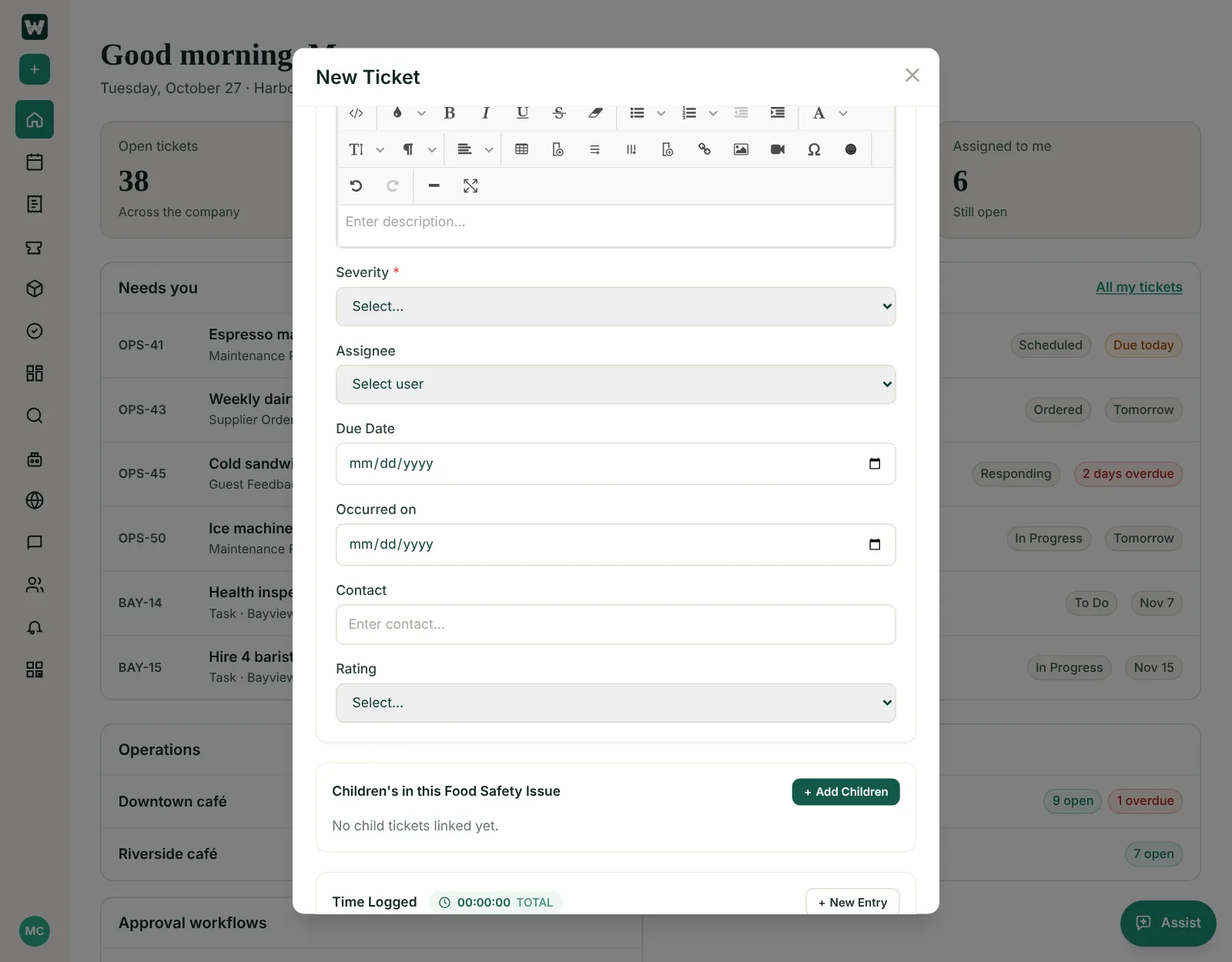
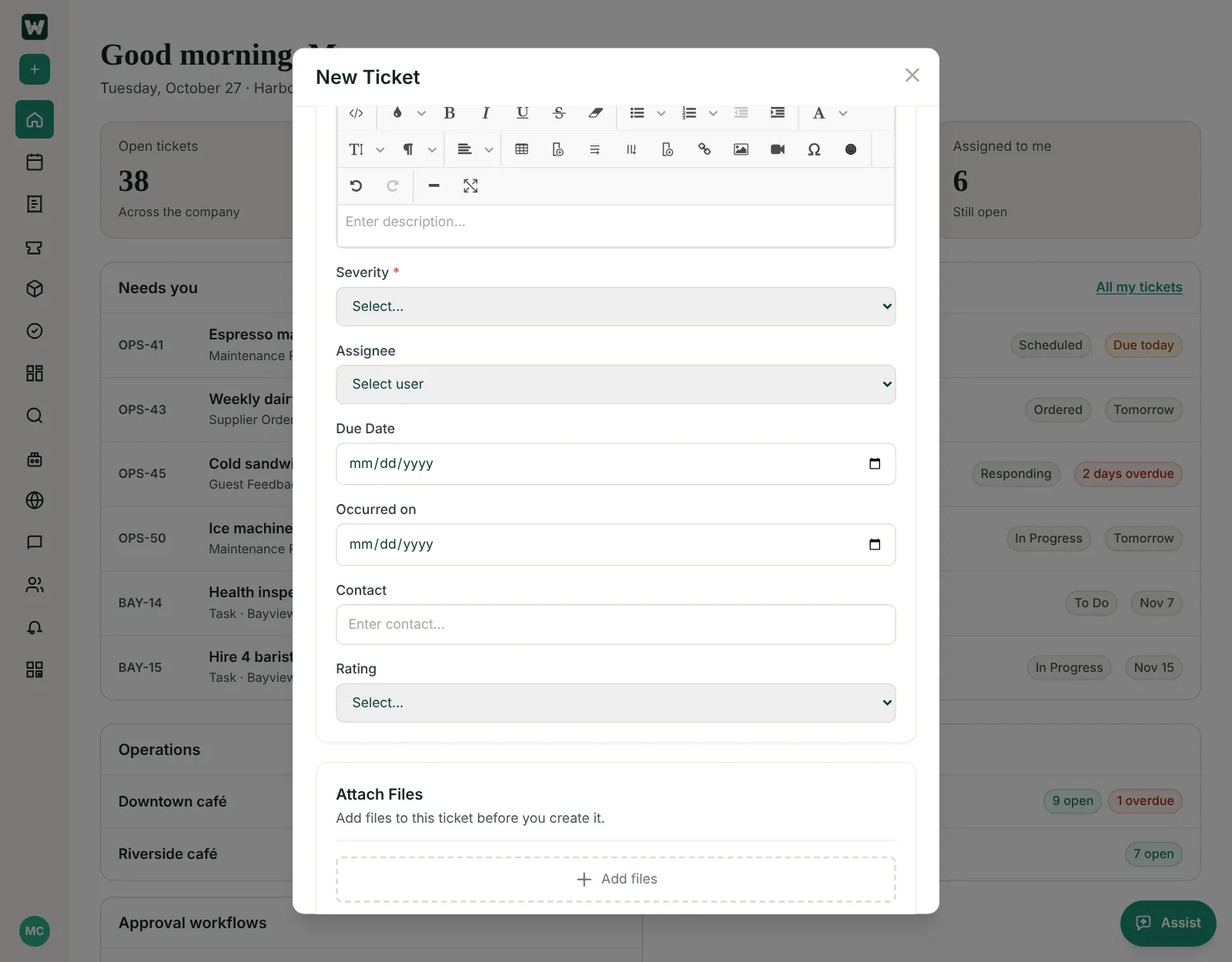
Docs: aura_monorepo #162–#166 — control ticket sections, Docs trash
- Tickets: new "Control the sections on a ticket" (Time logging, Attach
  files, Hierarchy + GitHub/Claude/Cursor; off until turned on per type;
  where they show) with the Sections editor, New Ticket and open-ticket shots
- Integrations (GitHub, Claude, Cursor): turn the section on per type
- Modules (Spaces): Docs trash with screenshot; Getting started: setup maps
  chosen types to your locations; Signing in: expired sessions
- FAQ, What's new (Nov 4); ticket screenshots re-taken

Claude-Session: https://claude.ai/code/session_01LrkZDcZU3B667ZymrL3Co3

diff --git a/docs/tickets/index.html b/docs/tickets/index.html
@@ -32,11 +32,11 @@
 
 <main id="top">
   <div class="wrap docs-layout">
-    <aside class="docs-side"><details class="side-details" id="docs-nav"><summary>Docs menu</summary><nav aria-label="Documentation"><p class="side-title">Get started</p><ul class="side-pages"><li><a href="/docs/">Overview</a></li><li><a href="/docs/getting-started/">Getting started</a></li><li><a href="/docs/signing-in/">Signing in</a></li><li><a href="/docs/plans-and-billing/">Plans &amp; billing</a></li><li><a href="/docs/ai-credits/">AI credits</a></li><li><a href="/docs/whats-new/">What’s new</a></li></ul><p class="side-title">Features</p><ul class="side-pages"><li><a href="/docs/home/">Home</a></li><li><a href="/docs/tickets/" aria-current="page">Tickets</a><ul class="side-sections"><li><a href="#list">The tickets list</a></li><li><a href="#ask-ai">Search with Ask AI</a></li><li><a href="#filters">Filters</a></li><li><a href="#new-ticket">Create a ticket</a></li><li><a href="#bulk-edit">Edit many at once</a></li><li><a href="#fields">Fields for each type</a></li><li><a href="#workflows">Workflow types</a></li><li><a href="#sections">Sections on a ticket</a></li><li><a href="#custom-workflow">Branching workflows</a></li></ul></li><li><a href="/docs/reports/">Scheduled reports</a></li><li><a href="/docs/approvals/">Approvals</a></li><li><a href="/docs/order-tracking/">Order Tracking</a></li><li><a href="/docs/connect-your-ai/">Connect your AI</a></li><li><a href="/docs/assist/">Assist</a></li><li><a href="/docs/shifts/">Shifts</a></li><li><a href="/docs/tv-screens/">TV screens</a></li></ul><p class="side-title">Reference</p><ul class="side-pages"><li><a href="/docs/modules/">Modules</a></li><li><a href="/docs/integrations/">Integrations</a></li><li class="sub"><a href="/docs/integrations/github/">GitHub</a></li><li class="sub"><a href="/docs/integrations/claude/">Claude</a></li><li class="sub"><a href="/docs/integrations/cursor/">Cursor</a></li><li class="sub"><a href="/docs/integrations/square/">Square</a></li><li class="sub"><a href="/docs/integrations/quickbooks/">QuickBooks</a></li><li class="sub"><a href="/docs/integrations/custom-apps/">Custom apps</a></li></ul><p class="side-title">Industry guides</p><ul class="side-pages"><li><a href="/docs/guides/restaurants/">Restaurants &amp; cafés</a></li><li><a href="/docs/guides/construction/">Construction &amp; trades</a></li><li><a href="/docs/guides/software/">Software teams</a></li></ul><p class="side-title">Help</p><ul class="side-pages"><li><a href="/docs/faq/">FAQ</a></li><li><a href="/docs/security/">Security &amp; data</a></li></ul></nav></details></aside><script>(function(){var d=document.getElementById("docs-nav");if(d&&window.matchMedia("(min-width: 981px)").matches)d.open=true;})();</script>
+    <aside class="docs-side"><details class="side-details" id="docs-nav"><summary>Docs menu</summary><nav aria-label="Documentation"><p class="side-title">Get started</p><ul class="side-pages"><li><a href="/docs/">Overview</a></li><li><a href="/docs/getting-started/">Getting started</a></li><li><a href="/docs/signing-in/">Signing in</a></li><li><a href="/docs/plans-and-billing/">Plans &amp; billing</a></li><li><a href="/docs/ai-credits/">AI credits</a></li><li><a href="/docs/whats-new/">What’s new</a></li></ul><p class="side-title">Features</p><ul class="side-pages"><li><a href="/docs/home/">Home</a></li><li><a href="/docs/tickets/" aria-current="page">Tickets</a><ul class="side-sections"><li><a href="#list">The tickets list</a></li><li><a href="#ask-ai">Search with Ask AI</a></li><li><a href="#filters">Filters</a></li><li><a href="#new-ticket">Create a ticket</a></li><li><a href="#bulk-edit">Edit many at once</a></li><li><a href="#fields">Fields for each type</a></li><li><a href="#workflows">Workflow types</a></li><li><a href="#sections">Control sections</a></li><li><a href="#custom-workflow">Branching workflows</a></li></ul></li><li><a href="/docs/reports/">Scheduled reports</a></li><li><a href="/docs/approvals/">Approvals</a></li><li><a href="/docs/order-tracking/">Order Tracking</a></li><li><a href="/docs/connect-your-ai/">Connect your AI</a></li><li><a href="/docs/assist/">Assist</a></li><li><a href="/docs/shifts/">Shifts</a></li><li><a href="/docs/tv-screens/">TV screens</a></li></ul><p class="side-title">Reference</p><ul class="side-pages"><li><a href="/docs/modules/">Modules</a></li><li><a href="/docs/integrations/">Integrations</a></li><li class="sub"><a href="/docs/integrations/github/">GitHub</a></li><li class="sub"><a href="/docs/integrations/claude/">Claude</a></li><li class="sub"><a href="/docs/integrations/cursor/">Cursor</a></li><li class="sub"><a href="/docs/integrations/square/">Square</a></li><li class="sub"><a href="/docs/integrations/quickbooks/">QuickBooks</a></li><li class="sub"><a href="/docs/integrations/custom-apps/">Custom apps</a></li></ul><p class="side-title">Industry guides</p><ul class="side-pages"><li><a href="/docs/guides/restaurants/">Restaurants &amp; cafés</a></li><li><a href="/docs/guides/construction/">Construction &amp; trades</a></li><li><a href="/docs/guides/software/">Software teams</a></li></ul><p class="side-title">Help</p><ul class="side-pages"><li><a href="/docs/faq/">FAQ</a></li><li><a href="/docs/security/">Security &amp; data</a></li></ul></nav></details></aside><script>(function(){var d=document.getElementById("docs-nav");if(d&&window.matchMedia("(min-width: 981px)").matches)d.open=true;})();</script>
     <article class="doc">
       <p class="eyebrow">Features</p>
       <h1>Tickets</h1>
-      <p class="intro">Every piece of work in Worklynq is a ticket — a checklist, a repair, a supplier order, an RFI, a bug. This page covers finding and filtering tickets, creating them, editing many at once, and setting up each type of ticket: the fields it asks for and how it moves from start to finish.</p>
+      <p class="intro">Every piece of work in Worklynq is a ticket — a checklist, a repair, a supplier order, an RFI, a bug. This page covers finding and filtering tickets, creating them, editing many at once, and setting up each type of ticket: the fields it asks for, the sections it shows, and how it moves from start to finish.</p>
       <figure class="shot"><img src="/assets/screens/tickets-ask-ai.webp" alt="The tickets list after an Ask AI search for the Downtown café’s tickets due this week, with the AI applied bar showing Unresolved, Downtown café and Due date in next 7 days" loading="lazy" width="1600" height="1000"><figcaption>Ask AI: “Downtown café, due this week” — and exactly what it applied</figcaption></figure>
       <section class="sec" id="list"><h2>The tickets list</h2>
         <ul>
@@ -77,7 +77,7 @@
       <section class="sec" id="new-ticket"><h2>Create a ticket</h2>
         <p>Click <strong>+</strong> at the top of the sidebar, or <strong>New ticket</strong> on a page. Pick the <strong>Work area</strong> — the store, project, product, or approval space the work belongs to — then the <strong>Ticket type</strong>. Only the types mapped to that work area are offered. If you see <em>No work area available</em>, you haven’t been given access to any yet — ask your administrator.</p>
         <figure class="shot"><img src="/assets/screens/new-ticket.webp" alt="The New Ticket dialog with Work area and Ticket type side by side" loading="lazy" width="1600" height="1000"><figcaption>New Ticket starts with the work area, lined up with the ticket type</figcaption></figure>
-        <p>The rest of the form asks for the fields that suit that type of ticket — see <a href="#fields">Fields for each type of ticket</a>.</p>
+        <p>The rest of the form asks for the fields that suit that type of ticket — see <a href="#fields">Fields for each type of ticket</a> — followed by any <a href="#sections">sections</a> the type has, such as Attach files.</p>
         <p class="tip">Your System Admin chooses which ticket types each work area can use in <strong>Admin console → Work Configuration → Ticket Type Mapping</strong>.</p>
         <figure class="shot"><img src="/assets/screens/ticket-type-mapping.webp" alt="Ticket Type Mapping: each store, project and approval space with the ticket types it can use" loading="lazy" width="1600" height="1000"><figcaption>Work Configuration → Ticket Type Mapping</figcaption></figure>
       </section>
@@ -106,7 +106,7 @@
             <tr><td>Engineering issue</td><td>Bug</td><td>Severity*, Environment*, Steps to reproduce, Expected and actual result, Device, Root cause</td></tr>
             <tr><td>Engineering work</td><td>Story, Task, Feature, Spike</td><td>Acceptance criteria, Estimate, Start date, plus sprint and release</td></tr>
             <tr><td>Engineering planning</td><td>Epic</td><td>Objective*, Start date, Estimate</td></tr>
-            <tr><td>General</td><td>Anything else</td><td>Description, assignee, priority, start and due dates, labels, files</td></tr>
+            <tr><td>General</td><td>Anything else</td><td>Description, assignee, priority, start and due dates, labels</td></tr>
           </tbody>
         </table></div>
         <p>Worklynq picks the kind from the ticket type’s name, its description, and the work areas it’s used in. A <em>Task</em> on a software product gets the engineering fields; a <em>Task</em> at a café gets the general ones.</p>
@@ -132,9 +132,37 @@
         <figure class="shot"><img src="/assets/screens/ticket-types-list.webp" alt="Ticket Types in Work Configuration, with each type’s workflow type, stages and sections" loading="lazy" width="1600" height="1000"><figcaption>Admin console → Work Configuration → Ticket Types</figcaption></figure>
         <p>Every workflow has a starting stage, up to five stages in the middle, and up to four <strong>end stages</strong>. A ticket counts as resolved once it reaches an end stage — that’s what <em>Unresolved</em> and “open” mean in filters and Ask AI. Each end stage is marked as a <strong>success</strong>, a <strong>failure</strong>, or <strong>cancelled</strong> — so a request can end <em>Approved</em>, <em>Rejected</em>, or <em>Withdrawn</em>, and Home and reports know which way it finished.</p>
       </section>
-      <section class="sec" id="sections"><h2>Sections on a ticket</h2>
-        <p>Besides fields, a ticket can show extra panels: the <strong>Time recorder</strong> for logging time, and, once those apps are connected, <strong>GitHub</strong> (branches, commits and pull requests) and the <strong>Claude</strong> and <strong>Cursor</strong> coding agents. The <strong>Sections</strong> column on Ticket Types shows which panels each type has. Click it to switch them on or off; apps that aren’t connected yet are greyed out, with a link to connect them.</p>
-        <figure class="shot"><img src="/assets/screens/ticket-types-sections.webp" alt="Sections on Maintenance Request tickets: Time recorder on under Built-in, and GitHub, Claude agent and Cursor agent under Apps, greyed out until connected" loading="lazy" width="1600" height="1250"><figcaption>Choosing the sections for Maintenance Request tickets</figcaption></figure>
+      <section class="sec" id="sections"><h2>Control the sections on a ticket</h2>
+        <p>Besides its fields, a ticket can have <strong>sections</strong>: larger parts that each ticket type turns on only if it needs them. Your System Admin chooses them for each ticket type.</p>
+        <div class="table-wrap"><table>
+          <thead><tr><th>Section</th><th>What it adds to the ticket</th></tr></thead>
+          <tbody>
+            <tr><td colspan="2"><strong>Built-in</strong></td></tr>
+            <tr><td>Time logging</td><td>A clock in / stop timer and time entries, with the total time logged.</td></tr>
+            <tr><td>Attach files</td><td>Upload files when you create the ticket, and attach more later.</td></tr>
+            <tr><td>Hierarchy</td><td>Parent and child tickets: put the ticket under a parent, or add children to it — a milestone and its punch items, an epic and its stories.</td></tr>
+            <tr><td colspan="2"><strong>Apps</strong> (once connected)</td></tr>
+            <tr><td><a href="/docs/integrations/github/">GitHub</a></td><td>Branches, commits, and pull requests linked to the ticket.</td></tr>
+            <tr><td><a href="/docs/integrations/claude/">Claude agent</a></td><td>Hand the ticket to a Claude coding agent and follow its progress.</td></tr>
+            <tr><td><a href="/docs/integrations/cursor/">Cursor agent</a></td><td>Hand the ticket to a Cursor cloud agent and follow its progress.</td></tr>
+          </tbody>
+        </table></div>
+        <p><strong>Every section starts off.</strong> A new ticket type, and an app you’ve just connected, shows no sections on any type until you turn them on. That keeps simple tickets simple: a checklist doesn’t need a timer or file uploads.</p>
+        <h3>Turn a section on or off</h3>
+        <ol class="howto">
+          <li>Open <strong>Admin console → Work Configuration → Ticket Types</strong>. The <strong>Sections</strong> column shows the sections each type has, or <em>None</em>.</li>
+          <li>Click the type’s Sections cell (or <strong>Edit</strong> under it). A panel opens, titled <em>Sections on … tickets</em>, with <strong>Built-in</strong> and <strong>Apps</strong> groups.</li>
+          <li>Switch each section on or off. It saves straight away.</li>
+          <li>Apps you haven’t connected are greyed out, with an <strong>Open Apps</strong> link to connect them first.</li>
+        </ol>
+        <figure class="shot"><img src="/assets/screens/ticket-types-sections.webp" alt="Sections on Maintenance Request tickets: Time logging and Attach files on, Hierarchy off, and GitHub under Apps greyed out until connected; Food Safety Issue and Guest Feedback show Attach files in the Sections column" loading="lazy" width="1600" height="1250"><figcaption>Maintenance Request tickets get time logging and file uploads, but no parent / children</figcaption></figure>
+        <h3>Where sections show</h3>
+        <ul>
+          <li><strong>Everywhere the ticket does.</strong> A section that’s on shows on New Ticket and on the open ticket; one that’s off is hidden from both. Sections aren’t fields, so they’re not in Ticket Type Screens or the Fields list — this switch is the only one.</li>
+          <li><strong>Nothing is lost when you turn one off.</strong> A ticket that already has files, logged time, or a parent or children keeps showing them.</li>
+          <li><strong>Apps follow the switch too.</strong> When the Claude or Cursor section is off for a type, that type’s tickets can’t be handed to the agent, including by stage automations.</li>
+        </ul>
+        <div class="shot-pair"><figure class="shot"><img src="/assets/screens/new-ticket-sections.webp" alt="New Ticket for a Maintenance Request, ending with the Time Logged section and the Attach Files section with Add files" loading="lazy" width="1600" height="1250"><figcaption>New Ticket with Time logging and Attach files on</figcaption></figure><figure class="shot"><img src="/assets/screens/ticket-detail-sections.webp" alt="An open Maintenance Request with Start clock, Time Logged and Attachments sections above the comments" loading="lazy" width="1600" height="1250"><figcaption>The same sections on the open ticket</figcaption></figure></div>
       </section>
       <section class="sec" id="custom-workflow"><h2>Build a branching workflow</h2>
         <p>For example, a <em>Menu Change</em> goes from <em>Proposed</em> to <em>Tasting</em>; after tasting it can be sent back with <em>Changes requested</em>, move on to <em>Costed</em>, or be <em>Rejected</em>.</p>
@@ -149,7 +177,7 @@
         <p><strong>Where the rules apply.</strong> On the board, dragging a card to a stage the workflow doesn’t allow shows <em>This workflow doesn’t go from X to Y</em>. On a ticket, the status menu greys out stages that aren’t a next step. Stage automations aren’t limited by the branches, and Linear and Free flow types work exactly as before.</p>
         <p class="tip">Want a quick start? <strong>Reset to linear</strong> puts back the one-step-at-a-time moves, and you can add branches from there.</p>
       </section>
-      <p class="doc-foot">Last updated: November 3, 2026. Questions? <a href="mailto:info@cohesync.com">info@cohesync.com</a></p>
+      <p class="doc-foot">Last updated: November 4, 2026. Questions? <a href="mailto:info@cohesync.com">info@cohesync.com</a></p>
     </article>
   </div>
 </main>

diff --git a/docs/whats-new/index.html b/docs/whats-new/index.html
@@ -32,11 +32,17 @@
 
 <main id="top">
   <div class="wrap docs-layout">
-    <aside class="docs-side"><details class="side-details" id="docs-nav"><summary>Docs menu</summary><nav aria-label="Documentation"><p class="side-title">Get started</p><ul class="side-pages"><li><a href="/docs/">Overview</a></li><li><a href="/docs/getting-started/">Getting started</a></li><li><a href="/docs/signing-in/">Signing in</a></li><li><a href="/docs/plans-and-billing/">Plans &amp; billing</a></li><li><a href="/docs/ai-credits/">AI credits</a></li><li><a href="/docs/whats-new/" aria-current="page">What’s new</a><ul class="side-sections"><li><a href="#2026-10-29">October 29, 2026</a></li><li><a href="#2026-10-28">October 28, 2026</a></li><li><a href="#2026-10-27">October 27, 2026</a></li><li><a href="#2026-10-26">October 26, 2026</a></li><li><a href="#2026-10-25">October 25, 2026</a></li><li><a href="#2026-10-22">October 22, 2026</a></li><li><a href="#2026-10-21">October 21, 2026</a></li></ul></li></ul><p class="side-title">Features</p><ul class="side-pages"><li><a href="/docs/home/">Home</a></li><li><a href="/docs/tickets/">Tickets</a></li><li><a href="/docs/reports/">Scheduled reports</a></li><li><a href="/docs/approvals/">Approvals</a></li><li><a href="/docs/order-tracking/">Order Tracking</a></li><li><a href="/docs/connect-your-ai/">Connect your AI</a></li><li><a href="/docs/assist/">Assist</a></li><li><a href="/docs/shifts/">Shifts</a></li><li><a href="/docs/tv-screens/">TV screens</a></li></ul><p class="side-title">Reference</p><ul class="side-pages"><li><a href="/docs/modules/">Modules</a></li><li><a href="/docs/integrations/">Integrations</a></li><li class="sub"><a href="/docs/integrations/github/">GitHub</a></li><li class="sub"><a href="/docs/integrations/claude/">Claude</a></li><li class="sub"><a href="/docs/integrations/cursor/">Cursor</a></li><li class="sub"><a href="/docs/integrations/square/">Square</a></li><li class="sub"><a href="/docs/integrations/quickbooks/">QuickBooks</a></li><li class="sub"><a href="/docs/integrations/custom-apps/">Custom apps</a></li></ul><p class="side-title">Industry guides</p><ul class="side-pages"><li><a href="/docs/guides/restaurants/">Restaurants &amp; cafés</a></li><li><a href="/docs/guides/construction/">Construction &amp; trades</a></li><li><a href="/docs/guides/software/">Software teams</a></li></ul><p class="side-title">Help</p><ul class="side-pages"><li><a href="/docs/faq/">FAQ</a></li><li><a href="/docs/security/">Security &amp; data</a></li></ul></nav></details></aside><script>(function(){var d=document.getElementById("docs-nav");if(d&&window.matchMedia("(min-width: 981px)").matches)d.open=true;})();</script>
+    <aside class="docs-side"><details class="side-details" id="docs-nav"><summary>Docs menu</summary><nav aria-label="Documentation"><p class="side-title">Get started</p><ul class="side-pages"><li><a href="/docs/">Overview</a></li><li><a href="/docs/getting-started/">Getting started</a></li><li><a href="/docs/signing-in/">Signing in</a></li><li><a href="/docs/plans-and-billing/">Plans &amp; billing</a></li><li><a href="/docs/ai-credits/">AI credits</a></li><li><a href="/docs/whats-new/" aria-current="page">What’s new</a><ul class="side-sections"><li><a href="#2026-11-04">November 4, 2026</a></li><li><a href="#2026-10-29">October 29, 2026</a></li><li><a href="#2026-10-28">October 28, 2026</a></li><li><a href="#2026-10-27">October 27, 2026</a></li><li><a href="#2026-10-26">October 26, 2026</a></li><li><a href="#2026-10-25">October 25, 2026</a></li><li><a href="#2026-10-22">October 22, 2026</a></li><li><a href="#2026-10-21">October 21, 2026</a></li></ul></li></ul><p class="side-title">Features</p><ul class="side-pages"><li><a href="/docs/home/">Home</a></li><li><a href="/docs/tickets/">Tickets</a></li><li><a href="/docs/reports/">Scheduled reports</a></li><li><a href="/docs/approvals/">Approvals</a></li><li><a href="/docs/order-tracking/">Order Tracking</a></li><li><a href="/docs/connect-your-ai/">Connect your AI</a></li><li><a href="/docs/assist/">Assist</a></li><li><a href="/docs/shifts/">Shifts</a></li><li><a href="/docs/tv-screens/">TV screens</a></li></ul><p class="side-title">Reference</p><ul class="side-pages"><li><a href="/docs/modules/">Modules</a></li><li><a href="/docs/integrations/">Integrations</a></li><li class="sub"><a href="/docs/integrations/github/">GitHub</a></li><li class="sub"><a href="/docs/integrations/claude/">Claude</a></li><li class="sub"><a href="/docs/integrations/cursor/">Cursor</a></li><li class="sub"><a href="/docs/integrations/square/">Square</a></li><li class="sub"><a href="/docs/integrations/quickbooks/">QuickBooks</a></li><li class="sub"><a href="/docs/integrations/custom-apps/">Custom apps</a></li></ul><p class="side-title">Industry guides</p><ul class="side-pages"><li><a href="/docs/guides/restaurants/">Restaurants &amp; cafés</a></li><li><a href="/docs/guides/construction/">Construction &amp; trades</a></li><li><a href="/docs/guides/software/">Software teams</a></li></ul><p class="side-title">Help</p><ul class="side-pages"><li><a href="/docs/faq/">FAQ</a></li><li><a href="/docs/security/">Security &amp; data</a></li></ul></nav></details></aside><script>(function(){var d=document.getElementById("docs-nav");if(d&&window.matchMedia("(min-width: 981px)").matches)d.open=true;})();</script>
     <article class="doc">
       <p class="eyebrow">Get started</p>
       <h1>What’s new</h1>
       <p class="intro">New features and improvements in Worklynq, newest first.</p>
+      <section class="release" id="2026-11-04"><h2>November 4, 2026</h2>
+        <article class="change" id="sections-per-type"><span class="change-tag">Changed</span><h3>Choose the sections each ticket type shows</h3><p>Time logging, Attach files, and Hierarchy (parent / child tickets) are now <strong>sections</strong>, switched on per ticket type in the Sections column of Ticket Types, next to GitHub, Claude, and Cursor. Every section starts off — for new ticket types and newly connected apps too — so turn on what each type needs. A section that’s on shows on New Ticket and on the open ticket; tickets that already have files, time, or children keep showing them.</p><p class="change-link"><a href="/docs/tickets/#sections">Control sections →</a></p></article>
+        <article class="change" id="setup-mapping"><span class="change-tag">Fixed</span><h3>Ticket types chosen in setup work at your locations right away</h3><p>The ticket types you pick in first-time setup are now turned on for the locations or projects you added the step before, so you can create tickets there straight away.</p><p class="change-link"><a href="/docs/getting-started/#ticket-types">Getting started →</a></p></article>
+        <article class="change" id="docs-trash"><span class="change-tag">Fixed</span><h3>Deleted pages go to Docs trash</h3><p>Deleting a page, folder, or space now moves it to Docs trash, where your System Admin can recover it or delete it for good. Before, deleted pages were erased straight away.</p><p class="change-link"><a href="/docs/modules/#spaces">Spaces →</a></p></article>
+        <article class="change" id="session-expiry"><span class="change-tag">Improved</span><h3>An expired session takes you to sign in and back</h3><p>If your session runs out while a tab is open, Worklynq now sends you to sign in and then back to the page you were on, instead of failing every action. Bulk edit on the tickets list works again, too.</p><p class="change-link"><a href="/docs/signing-in/#cant-sign-in">Signing in →</a></p></article>
+      </section>
       <section class="release" id="2026-10-29"><h2>October 29, 2026</h2>
         <article class="change" id="filters-panel"><span class="change-tag">New</span><h3>A new Filters panel, with saved filters you can share</h3><p><strong>Filter</strong> on the tickets list opens one page: describe what you want and Ask AI fills in the conditions, pick a quick filter like <em>My open</em> or <em>Overdue</em>, or build conditions that read like sentences — with <em>all</em> or <em>any</em>, nested groups, and values from your real statuses, people, work areas, and custom fields. A live count shows how many tickets match. Saved filters can be shared with everyone, renamed, duplicated, or set as your default.</p><p class="change-link"><a href="/docs/tickets/#filters">Filters →</a></p></article>
         <article class="change" id="ai-applied"><span class="change-tag">Improved</span><h3>See exactly what Ask AI applied</h3><p>After an Ask AI search, a bar under the toolbar shows what was applied as chips — <em>Unresolved · Downtown café · Priority: Critical, High</em>. Remove a chip, show the query, edit it in Filters, or save it. Ask AI is also more accurate: “open” follows each ticket type’s end stages, it only uses values that exist in your workspace, and it understands kinds of work like “all operations tickets”.</p><p class="change-link"><a href="/docs/tickets/#ask-ai">Ask AI →</a></p></article>
@@ -102,7 +108,7 @@
         <article class="change" id="customers-engagement"><span class="change-tag">New</span><h3>Customers and Engagement</h3><p>Customer Experience starts with two modules. <strong>Customers</strong> keeps records for the people and businesses you sell to, with their purchases, subscriptions, orders, and total spent. <strong>Engagement</strong> adds a history of every call, meeting, email, and note, plus promo emails sent through your own Mailchimp account — pick who gets them, send now or schedule, and see opens and clicks.</p><p class="change-link"><a href="/docs/modules/#customer-experience">About Customer Experience →</a></p></article>
         <article class="change" id="ai-hub-focus"><span class="change-tag">Changed</span><h3>A simpler AI Hub, with agents that act</h3><p>AI Hub now has two modules: <strong>AI Search</strong> and <strong>AI Agents</strong>. AI Context, Workflows, Assets, and Playground are gone — multi-step work lives in ticket stage automations, and an agent’s instructions and knowledge live in the agent itself. Agents can now look things up and, when you allow it, change tickets and docs as the person who runs them; run them yourself, on a schedule, or when a ticket reaches a stage. The Agents page also shows your team’s connected AI, the Claude and Cursor coding agents, and an activity log.</p><p class="change-link"><a href="/docs/modules/#ai-hub">About AI Hub →</a></p></article>
       </section>
-      <p class="doc-foot">Last updated: November 3, 2026. Questions? <a href="mailto:info@cohesync.com">info@cohesync.com</a></p>
+      <p class="doc-foot">Last updated: November 4, 2026. Questions? <a href="mailto:info@cohesync.com">info@cohesync.com</a></p>
     </article>
   </div>
 </main>

diff --git a/docs/modules/index.html b/docs/modules/index.html
@@ -82,7 +82,7 @@
           <h3>Tickets</h3>
           <p class="mod-tagline">Every piece of work, tracked from start to done.</p>
           <p>Tickets hold everything your team works on: tasks, requests, issues, inspections, bugs. Each ticket type has its own workflow — a starting stage, up to five stages in the middle, and up to four end stages — and can run in a set order, move freely, or follow branches you design (see <a href="/docs/tickets/#workflows">workflow types</a>). Every end stage is marked as a <strong>success</strong>, a <strong>failure</strong>, or <strong>cancelled</strong>, so work can finish more than one way: a Change Order can end Approved, Rejected, or Withdrawn. The workflow editor draws several end stages as branches. Types can sit under one another, like a Story under an Epic or a Punch Item under a Milestone.</p>
-          <ul class="hl"><li>Ticket types with their own stages and colors</li><li>Several endings per type — success, failure, or cancelled</li><li>Parent and child tickets (Epic → Story, Milestone → Punch Item)</li><li>Assignees, priorities, due dates, comments, and attachments, plus <a href="/docs/tickets/#fields">fields suited to each kind of ticket</a> — Occurred on and Corrective action on a food safety issue, Steps to reproduce on a bug</li><li>Find anything with <a href="/docs/tickets/#ask-ai">Ask AI</a> and <a href="/docs/tickets/#filters">Filters</a>, and share saved filters with your team</li><li>Automations on each stage: create follow-up tickets, update fields, hand the ticket to Claude or Cursor, or run an AI agent</li><li>A library of 35 ready-made ticket types by industry</li></ul>
+          <ul class="hl"><li>Ticket types with their own stages and colors</li><li>Several endings per type — success, failure, or cancelled</li><li>Parent and child tickets (Epic → Story, Milestone → Punch Item)</li><li><a href="/docs/tickets/#sections">Sections you turn on per type</a>: time logging, file uploads, parent / children, and GitHub, Claude, or Cursor</li><li>Assignees, priorities, due dates, comments, and attachments, plus <a href="/docs/tickets/#fields">fields suited to each kind of ticket</a> — Occurred on and Corrective action on a food safety issue, Steps to reproduce on a bug</li><li>Find anything with <a href="/docs/tickets/#ask-ai">Ask AI</a> and <a href="/docs/tickets/#filters">Filters</a>, and share saved filters with your team</li><li>Automations on each stage: create follow-up tickets, update fields, hand the ticket to Claude or Cursor, or run an AI agent</li><li>A library of 35 ready-made ticket types by industry</li></ul>
         <figure class="shot"><img src="/assets/screens/ticket-detail.webp" alt="A maintenance ticket: its stage, its slot on the Operations calendar, assignee, priority, due date and description" loading="lazy" width="1600" height="1125"><figcaption>A ticket with its stage, calendar slot, and details</figcaption></figure>
           <p class="req">Many modules build on Tickets: Operations, Projects, Team Board, Roadmaps, Product Releases, and AI Agents.</p>
         </div>
@@ -150,9 +150,11 @@
           <h3>Spaces</h3>
           <p class="mod-tagline">Write it down once. Share it with the right people.</p>
           <p>Your own My Space plus shared spaces for the company, all in one module — pick a space at the top of the page tree, with My Space first. Write documents, notes, and procedures in a rich editor, start from templates, send important documents for approval (with the Approvals module on), and archive what&#x27;s out of date without losing it. Archive and Templates sit under Spaces in the sidebar while it’s open.</p>
-          <ul class="hl"><li>My Space and shared spaces, with one space picker</li><li>Rich editor and templates</li><li>Verified pages, with <a href="/docs/approvals/#documents">Approvals</a></li><li>Version history</li><li>Archive that stays searchable</li><li>Pages shared with you stay private to the people they’re shared with</li><li>Ask <a href="/docs/assist/#this-page">Assist</a> to summarize the page you’re reading</li></ul>
+          <ul class="hl"><li>My Space and shared spaces, with one space picker</li><li>Rich editor and templates</li><li>Verified pages, with <a href="/docs/approvals/#documents">Approvals</a></li><li>Version history</li><li>Archive that stays searchable</li><li>Deleted pages wait in Docs trash, where your System Admin can recover them</li><li>Pages shared with you stay private to the people they’re shared with</li><li>Ask <a href="/docs/assist/#this-page">Assist</a> to summarize the page you’re reading</li></ul>
         <figure class="shot"><img src="/assets/screens/spaces-page.webp" alt="Spaces: the Store procedures space with its pages, and the Opening &amp; closing procedures page open" loading="lazy" width="1600" height="1075"><figcaption>A shared space with its procedures</figcaption></figure>
           <p>Coming back to Spaces from another module reopens the last page you had open; the Knowledge Library does the same.</p>
+          <p><strong>Deleted something by mistake?</strong> Deleting a page, a folder, or a whole space moves it to trash rather than erasing it. Your System Admin opens <strong>Admin console → Work Configuration → Docs trash</strong> and clicks <strong>Recover</strong> to put it back where it was, or <strong>Delete</strong> to remove it for good.</p>
+        <figure class="shot"><img src="/assets/screens/docs-trash.webp" alt="Docs trash: a deleted Summer 2026 folder and its two pages, Summer hours and Patio menu, each with Recover and Delete" loading="lazy" width="1600" height="1000"><figcaption>Admin console → Work Configuration → Docs trash</figcaption></figure>
         </div>
         <div class="mod" id="knowledge-library">
           <h3>Knowledge Library</h3>
@@ -252,7 +254,7 @@
         <p>Approvals is optional for every business type — turn it on when you need it.</p>
         <p class="next">Next: <a href="/docs/getting-started/">Getting started</a> walks through setup step by step.</p>
       </section>
-      <p class="doc-foot">Last updated: November 3, 2026. Questions? <a href="mailto:info@cohesync.com">info@cohesync.com</a></p>
+      <p class="doc-foot">Last updated: November 4, 2026. Questions? <a href="mailto:info@cohesync.com">info@cohesync.com</a></p>
     </article>
   </div>
 </main>

diff --git a/docs/faq/index.html b/docs/faq/index.html
@@ -58,6 +58,8 @@
         <details class="faq" id="tv"><summary>Can I put Worklynq on a TV in my store?</summary><div class="faq-a"><p>Yes. Open Order Tracking or Operations, click <strong>Show on TV</strong>, and connect the TV with a code — most TV browsers, a Fire TV stick, or a tablet work. The TV can show open orders, today’s tasks, and who’s on duty. See <a href="/docs/tv-screens/">TV screens</a>.</p></div></details>
         <details class="faq" id="own-software"><summary>Can Worklynq show data from our own software?</summary><div class="faq-a"><p>Yes. Your developers add a small, read-only data feed to your app using our <a href="/docs/integrations/custom-apps/feed-spec/">one-page spec</a>, and your System Admin connects it as a <a href="/docs/integrations/custom-apps/">custom app</a>. Its data then works in dashboards and reports like Square or QuickBooks.</p></div></details>
         <details class="faq" id="own-ai-account"><summary>Do I need my own Claude or Cursor account?</summary><div class="faq-a"><p>Only if you want AI coding agents to work on tickets. You connect your own API key, and that provider bills your account for what the agents use. You can set limits on how long and, for Claude, how much each session may run.</p></div></details>
+        <details class="faq" id="no-attachments"><summary>Why can’t I attach files, log time, or add child tickets on some tickets?</summary><div class="faq-a"><p>Those are <strong>sections</strong>, and each one is off for a ticket type until your System Admin turns it on. They do that in <strong>Admin console → Work Configuration → Ticket Types</strong>, in the Sections column. See <a href="/docs/tickets/#sections">Control the sections on a ticket</a>.</p></div></details>
+        <details class="faq" id="deleted-page"><summary>Can I get back a page I deleted?</summary><div class="faq-a"><p>Yes. Deleted pages, folders, and spaces go to Docs trash. Your System Admin can recover them from <strong>Admin console → Work Configuration → Docs trash</strong>. See <a href="/docs/modules/#spaces">Spaces</a>.</p></div></details>
         <details class="faq" id="change-plan"><summary>How do we change plan or add people?</summary><div class="faq-a"><p>Your System Admin does it in <strong>Admin console → Billing → Subscription</strong> with <strong>Change plan</strong> or <strong>Add users</strong>. Worklynq shows the charge before you confirm. Moving up or adding people applies as soon as the payment goes through, charged for the rest of the period; a cheaper plan starts at your next renewal. For fewer people, switching between monthly and yearly, or cancelling, email <a href="mailto:info@cohesync.com">info@cohesync.com</a>. See <a href="/docs/plans-and-billing/#changing">Plans &amp; billing</a>.</p></div></details>
         <details class="faq" id="ai-credits"><summary>What are Worklynq AI credits?</summary><div class="faq-a"><p>Worklynq’s built-in AI — Assist, AI Search, agents, and AI in dashboards — runs on AI credits. Every person gets a monthly allowance with your plan — 1,000 credits on Basic, 3,000 on Advance, 7,000 on Premium. Assist warns at 80%; after that, people use your company’s extra credits, which your System Admin can buy in packs, and AI features pause only when those run out too. Using your own Claude or OpenAI key costs no credits. See your usage under <strong>AI Usage</strong> in your profile menu, and read <a href="/docs/ai-credits/">Worklynq AI credits</a>.</p></div></details>
         <details class="faq" id="which-ai"><summary>Which AI does Worklynq use?</summary><div class="faq-a"><p>Worklynq’s built-in AI uses models hosted on Amazon Bedrock. Your company can also set up its own Claude or OpenAI key and choose those models for things like building and explaining dashboards and summarizing reports. AI coding agents use Claude (Anthropic) or Cursor (Anysphere) through your own account with them.</p></div></details>
@@ -73,7 +75,7 @@
       <section class="faq-group" id="help"><h2>Help</h2>
         <details class="faq" id="contact"><summary>How do I get help or give feedback?</summary><div class="faq-a"><p>Email <a href="mailto:info@cohesync.com">info@cohesync.com</a> — we read everything. During the beta, your feedback directly shapes what we build next.</p></div></details>
       </section>
-      <p class="doc-foot">Last updated: November 3, 2026. Questions? <a href="mailto:info@cohesync.com">info@cohesync.com</a></p>
+      <p class="doc-foot">Last updated: November 4, 2026. Questions? <a href="mailto:info@cohesync.com">info@cohesync.com</a></p>
     </article>
   </div>
 </main>

diff --git a/docs/getting-started/index.html b/docs/getting-started/index.html
@@ -107,7 +107,8 @@
           </tbody>
         </table></div>
         <figure class="shot"><img src="/assets/screens/setup-4-ticket-types.webp" alt="Setup step 4: construction ticket types with their stages" loading="lazy" width="1600" height="1000"></figure>
-        <p><strong>Map them to your work.</strong> By default every store, project, or product can use all of your ticket types. Narrow it down later in the Admin console if, say, only the kitchen needs Food Safety Issues.</p>
+        <p><strong>Map them to your work.</strong> The types you choose are turned on for every store, project, or product you added in the previous step — and for any you add later — so you can create tickets there straight away. Narrow it down later in <strong>Admin console → Work Configuration → Ticket Type Mapping</strong> if, say, only the kitchen needs Food Safety Issues.</p>
+        <p><strong>Then choose their sections.</strong> Time logging, file uploads, and parent / child tickets start off for every type. Turn on the ones each type needs in <strong>Admin console → Work Configuration → Ticket Types</strong> — see <a href="/docs/tickets/#sections">Control the sections on a ticket</a>.</p>
         <p class="tip">The ticket types you choose are ordinary ticket types. Rename them, change their stages, or add automations later in Admin console → Work Configuration → Ticket types.</p>
       </section>
       <section class="step" id="integrations">
@@ -147,7 +148,7 @@
         </ul>
         <p class="next">Want the full picture of each module? Read <a href="/docs/modules/">Modules</a>.</p>
       </section>
-      <p class="doc-foot">Last updated: November 3, 2026. Questions? <a href="mailto:info@cohesync.com">info@cohesync.com</a></p>
+      <p class="doc-foot">Last updated: November 4, 2026. Questions? <a href="mailto:info@cohesync.com">info@cohesync.com</a></p>
     </article>
   </div>
 </main>

diff --git a/docs/integrations/claude/index.html b/docs/integrations/claude/index.html
@@ -73,7 +73,7 @@
       </section>
       <section class="sec" id="on-the-ticket"><h2>What you see on the ticket</h2>
         <p>Each ticket gets a <strong>Claude</strong> section showing the session’s status, Claude’s summary, the files it changed, its activity, the pull request, and how much it used. From there you can <strong>stop</strong> a running session or <strong>run Claude again</strong> (which starts a fresh session).</p>
-        <p>Your System Admin can turn the Claude section on or off for each ticket type in <strong>Admin console → Work Configuration → Ticket types</strong>. When it’s off, that type’s tickets can’t be handed to Claude, including by automations.</p>
+        <p><strong>Turn Claude on for each ticket type.</strong> Connecting Claude doesn’t add it to any tickets yet: your System Admin turns the <em>Claude agent</em> section on for the ticket types that should have it, under <strong>Admin console → Work Configuration → Ticket Types → Sections</strong>. While it’s off for a type, that type’s tickets can’t be handed to Claude, including by automations. See <a href="/docs/tickets/#sections">Control the sections on a ticket</a>.</p>
       </section>
       <section class="sec" id="control"><h2>Limits and control</h2>
         <ul>
@@ -92,7 +92,7 @@
           <dt>The key is rejected when connecting</dt><dd>The key is wrong, revoked, or from a different Anthropic workspace. Create a new key and try again.</dd>
         </dl>
       </section>
-      <p class="doc-foot">Last updated: October 25, 2026. Questions? <a href="mailto:info@cohesync.com">info@cohesync.com</a></p>
+      <p class="doc-foot">Last updated: November 4, 2026. Questions? <a href="mailto:info@cohesync.com">info@cohesync.com</a></p>
     </article>
   </div>
 </main>

diff --git a/docs/signing-in/index.html b/docs/signing-in/index.html
@@ -69,12 +69,13 @@
         <h2>Can’t sign in?</h2>
         <ul>
           <li><strong>“Invalid email or password”</strong> — check the email, or reset your password.</li>
+          <li><strong>Sent back to sign in?</strong> A session lasts 24 hours. When it runs out — say a tab was left open overnight — Worklynq takes you to sign in, then back to the page you were on.</li>
           <li><strong>“Workspace not found”</strong> — the address you opened isn’t a Worklynq workspace; check the spelling, or click <strong>Sign in at login.worklynq.net</strong> and we’ll take you to yours.</li>
           <li><strong>“Your company’s workspace isn’t set up yet”</strong> — your company doesn’t have its workspace yet. Contact <a href="mailto:info@cohesync.com">info@cohesync.com</a>.</li>
           <li><strong>“Your company’s Worklynq workspace is suspended”</strong> — your company’s access is paused. Contact your admin, or <a href="mailto:info@cohesync.com">info@cohesync.com</a>.</li>
         </ul>
       </section>
-      <p class="doc-foot">Last updated: November 3, 2026. Questions? <a href="mailto:info@cohesync.com">info@cohesync.com</a></p>
+      <p class="doc-foot">Last updated: November 4, 2026. Questions? <a href="mailto:info@cohesync.com">info@cohesync.com</a></p>
 </article>
   </div>
 </main>

diff --git a/docs/integrations/github/index.html b/docs/integrations/github/index.html
@@ -58,6 +58,7 @@
           <li>Choose the repositories Worklynq may access.</li>
           <li>Approve these permissions on those repositories: <strong>Contents: read and write</strong> and <strong>Pull requests: read and write</strong>.</li>
           <li>Back in Worklynq, GitHub shows as <strong>Connected</strong>.</li>
+          <li>Turn the <strong>GitHub</strong> section on for the ticket types that should show branches, commits, and pull requests, in <strong>Admin console → Work Configuration → Ticket Types → Sections</strong>. It starts off for every type — see <a href="/docs/tickets/#sections">Control the sections on a ticket</a>.</li>
         </ol>
         <p class="tip">Grant only the repositories Worklynq needs. You can add or remove repositories anytime in your GitHub settings for the app.</p>
       </section>
@@ -73,7 +74,7 @@
           <dt>A repository is missing in Worklynq</dt><dd>Add it to the app’s repository access in your GitHub settings, then refresh the Integrations page.</dd>
         </dl>
       </section>
-      <p class="doc-foot">Last updated: October 25, 2026. Questions? <a href="mailto:info@cohesync.com">info@cohesync.com</a></p>
+      <p class="doc-foot">Last updated: November 4, 2026. Questions? <a href="mailto:info@cohesync.com">info@cohesync.com</a></p>
     </article>
   </div>
 </main>

diff --git a/docs/integrations/cursor/index.html b/docs/integrations/cursor/index.html
@@ -57,6 +57,7 @@
           <li>Paste your Cursor API key. Worklynq checks it and loads the repositories your Cursor account can reach.</li>
           <li>Map each <strong>product</strong> to its <strong>repository</strong>.</li>
           <li>Save. Cursor shows as <strong>Connected</strong> with the number of repositories.</li>
+          <li>Turn the <strong>Cursor agent</strong> section on for the ticket types that can be handed to Cursor, in <strong>Admin console → Work Configuration → Ticket Types → Sections</strong>. It starts off for every type, and while it’s off that type’s tickets can’t start an agent, even from an automation — see <a href="/docs/tickets/#sections">Control the sections on a ticket</a>.</li>
         </ol>
       </section>
       <section class="sec" id="hand-off"><h2>Hand a ticket to Cursor</h2>
@@ -69,7 +70,7 @@
           <li>Changes come back as a pull request. Your team decides what to merge.</li>
         </ul>
       </section>
-      <p class="doc-foot">Last updated: October 25, 2026. Questions? <a href="mailto:info@cohesync.com">info@cohesync.com</a></p>
+      <p class="doc-foot">Last updated: November 4, 2026. Questions? <a href="mailto:info@cohesync.com">info@cohesync.com</a></p>
     </article>
   </div>
 </main>
